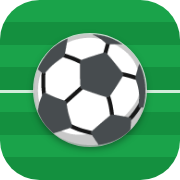
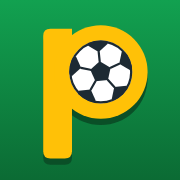
Ícono "P de pelota" y animación de inicio
- Nuevo ícono en todos los tamaños (192, 512, maskable, iPhone) y favicon SVG
- Animación al abrir la app: la pelota entra rodando, pica y aparece el nombre.
  Un toque la salta; no se repite antes de 15 min ni al recargar una pestaña;
  respeta "reducir movimiento" y se va sola aunque falle el script
- Caché pichanga-v8 (incluye icons/icon.svg) y prueba nueva de la animación

Claude-Session: https://claude.ai/code/session_01QoFx17BA7Twhzo8DsK3m5b

diff --git a/index.html b/index.html
@@ -5,13 +5,22 @@
 <meta name="viewport" content="width=device-width, initial-scale=1, viewport-fit=cover">
 <meta name="theme-color" content="#0b7a3b">
 <link rel="manifest" href="manifest.webmanifest">
-<link rel="icon" href="icons/icon-192.png">
+<link rel="icon" href="icons/icon.svg" type="image/svg+xml">
+<link rel="icon" href="icons/icon-192.png" sizes="192x192">
 <link rel="apple-touch-icon" href="icons/apple-touch-icon.png">
 <meta name="apple-mobile-web-app-capable" content="yes">
 <meta name="apple-mobile-web-app-title" content="Pichanga">
 <title>Pichanga.app</title>
 <link rel="preconnect" href="https://fonts.googleapis.com">
 <link href="https://fonts.googleapis.com/css2?family=Lilita+One&family=Nunito:wght@600;800&display=swap" rel="stylesheet">
+<script>
+  // Animación de inicio: solo al abrir la app de cero, no al recargar una pestaña ni al volver de WhatsApp
+  try {
+    const k = "pichanga-v1-intro", u = +localStorage.getItem(k) || 0;
+    if (!navigator.webdriver && !location.hash && Date.now() - u > 15 * 60e3) document.documentElement.classList.add("con-intro");
+    localStorage.setItem(k, Date.now());
+  } catch {}
+</script>
 <style>
   :root {
     --grass: #0b7a3b; --grass2: #12a150; --sky: #1565c0; --sky2: #42a5f5;
@@ -276,9 +285,54 @@
   }
   .manual, .manual2 { margin-top: 10px; }
   .manual summary, .manual2 summary { min-height: 44px; display: flex; align-items: center; font-size: 14px; }
+
+  /* Animación de inicio (dura 2,5 s; un toque la salta) */
+  .intro { display: none; }
+  html.con-intro .intro { display: block; position: fixed; inset: 0; z-index: 100; overflow: hidden; cursor: pointer;
+    background: repeating-linear-gradient(180deg, #0e8f45 0 9%, #12a150 9% 18%);
+    animation: intSalir .45s ease-in 3.5s forwards; } /* respaldo: se va sola aunque falle el script */
+  .intro .lineas { position: absolute; inset: 0; width: 100%; height: 100%; }
+  .intro .lineas * { fill: none; stroke: rgba(255,255,255,.85); stroke-width: .95; stroke-dasharray: 1; stroke-dashoffset: 1; animation: intTrazar .7s ease-out forwards; }
+  .intro .lineas .c { animation-delay: .15s; }
+  .intro .pelota { position: absolute; left: 50%; top: 50%; width: 84px; height: 84px; margin: -42px 0 0 -42px; opacity: 0; filter: drop-shadow(0 6px 0 rgba(0,0,0,.25));
+    animation: intRodar .85s cubic-bezier(.2,.7,.3,1) .3s forwards, intRebote .4s ease-out 1.15s; }
+  .intro .onda { position: absolute; left: 50%; top: 50%; width: 84px; height: 84px; margin: -42px 0 0 -42px; border-radius: 50%; border: 4px solid var(--gold); opacity: 0; animation: intOnda .7s ease-out 1.15s; }
+  .intro .marca { position: absolute; left: 0; right: 0; top: calc(50% + 72px); display: flex; justify-content: center; white-space: nowrap;
+    font: 400 40px/1 "Lilita One", Nunito, sans-serif; color: #fff; text-shadow: 0 4px 0 rgba(0,0,0,.28); }
+  .intro .marca span { display: inline-block; opacity: 0; transform: translateY(18px) scale(.6); animation: intLetra .38s cubic-bezier(.3,1.6,.5,1) forwards; animation-delay: calc(1.3s + var(--i) * .045s); }
+  .intro .marca .pt { color: var(--gold); }
+  .intro .lema, .intro .saltar { position: absolute; left: 0; right: 0; text-align: center; opacity: 0; font: 800 13px Nunito, sans-serif; color: rgba(255,255,255,.9); }
+  .intro .lema { top: calc(50% + 124px); letter-spacing: .1em; text-transform: uppercase; animation: intAparecer .4s ease-out 1.85s forwards; }
+  .intro .saltar { bottom: calc(18px + env(safe-area-inset-bottom, 0px)); font-size: 12px; color: rgba(255,255,255,.65); animation: intAparecer .3s ease-out .6s forwards; }
+  html.con-intro .intro.salir { animation: intSalir .45s ease-in forwards; }
+  @keyframes intTrazar { to { stroke-dashoffset: 0; } }
+  @keyframes intRodar { 0% { opacity: 1; transform: translateX(-60vw) rotate(-540deg); } 100% { opacity: 1; transform: none; } }
+  @keyframes intRebote { 0% { transform: scale(1); } 40% { transform: scale(1.12, .9); } 70% { transform: scale(.96, 1.05); } 100% { transform: scale(1); } }
+  @keyframes intOnda { 0% { opacity: .9; transform: scale(1); } 100% { opacity: 0; transform: scale(2.4); } }
+  @keyframes intLetra { to { opacity: 1; transform: none; } }
+  @keyframes intAparecer { to { opacity: 1; } }
+  @keyframes intSalir { to { opacity: 0; transform: scale(1.08); visibility: hidden; } }
+  @media (prefers-reduced-motion: reduce) {
+    /* sin rodar ni rebotar: aparece todo de una vez y se desvanece */
+    .intro .lineas *, .intro .pelota, .intro .marca span, .intro .lema, .intro .saltar { animation: intAparecer .2s forwards !important; stroke-dashoffset: 0; transform: none; }
+    .intro .onda { display: none; }
+    html.con-intro .intro.salir { animation: intSalir .3s forwards; }
+  }
 </style>
 </head>
 <body>
+<div class="intro" id="intro" aria-hidden="true">
+  <svg class="lineas" viewBox="0 0 100 200" preserveAspectRatio="xMidYMid slice">
+    <rect x="8" y="10" width="84" height="180" rx="2" pathLength="1"/><path d="M8 100 H92" pathLength="1"/>
+    <circle class="c" cx="50" cy="100" r="18" pathLength="1"/>
+    <path d="M30 10 V34 H70 V10" pathLength="1"/><path d="M30 190 V166 H70 V190" pathLength="1"/>
+  </svg>
+  <div class="onda"></div>
+  <svg class="pelota" viewBox="0 0 100 100"><defs></defs><clipPath id="introBall"><circle cx="50" cy="50" r="47"/></clipPath><circle cx="50" cy="50" r="47" fill="#fff"/><g clip-path="url(#introBall)"><path d="M50.00,34.02 L65.20,45.06 L59.39,62.93 L40.61,62.93 L34.80,45.06Z" fill="#1d2a33"/><path d="M50.00,19.92 L35.25,9.20 L40.88,-8.14 L59.12,-8.14 L64.75,9.20Z" fill="#1d2a33"/><path d="M78.61,40.70 L84.24,23.36 L102.48,23.36 L108.11,40.70 L93.36,51.42Z" fill="#1d2a33"/><path d="M67.68,74.34 L85.91,74.34 L91.55,91.68 L76.80,102.39 L62.05,91.68Z" fill="#1d2a33"/><path d="M32.32,74.34 L37.95,91.68 L23.20,102.39 L8.45,91.68 L14.09,74.34Z" fill="#1d2a33"/><path d="M21.39,40.70 L6.64,51.42 L-8.11,40.70 L-2.48,23.36 L15.76,23.36Z" fill="#1d2a33"/><path d="M50.00,34.02 L50.00,19.92 M65.20,45.06 L78.61,40.70 M59.39,62.93 L67.68,74.34 M40.61,62.93 L32.32,74.34 M34.80,45.06 L21.39,40.70" stroke="#1d2a33" stroke-width="3.29" stroke-linecap="round" fill="none"/><circle cx="35.9" cy="35.0" r="42.3" fill="rgba(255,255,255,.0)"/></g><circle cx="50" cy="50" r="45.35" fill="none" stroke="#1d2a33" stroke-width="3.29"/></svg>
+  <div class="marca"><span style="--i:0">p</span><span style="--i:1">i</span><span style="--i:2">c</span><span style="--i:3">h</span><span style="--i:4">a</span><span style="--i:5">n</span><span style="--i:6">g</span><span style="--i:7">a</span><span style="--i:8" class="pt">.</span><span style="--i:9">a</span><span style="--i:10">p</span><span style="--i:11">p</span></div>
+  <div class="lema">Convoca · Arma · Cobra</div>
+  <div class="saltar">Toca para saltar</div>
+</div>
 <header class="top"><h1>⚽ pichanga.app ⚽</h1></header>
 <div class="toast" id="toast" role="status" aria-live="polite"></div>
 
@@ -2622,6 +2676,21 @@ $("importar").addEventListener("change", async () => {
   } catch { toast("⚠ Ese archivo no es un respaldo de Pichanga"); }
   finally { $("importar").value = ""; }
 });
+
+// Animación de inicio: se va sola a los 2,5 s o con un toque; después se saca del todo
+if (document.documentElement.classList.contains("con-intro")) {
+  const intro = $("intro");
+  const fin = () => { document.documentElement.classList.remove("con-intro"); intro.remove(); };
+  const salir = () => {
+    if (intro.classList.contains("salir")) return;
+    clearTimeout(salir.t); intro.classList.add("salir");
+    intro.addEventListener("animationend", (e) => { if (e.target === intro) fin(); });
+    setTimeout(fin, 700); // por si la animación no termina (pestaña en segundo plano)
+  };
+  salir.t = setTimeout(salir, 2500);
+  intro.addEventListener("pointerdown", (e) => { e.preventDefault(); salir(); });
+  intro.addEventListener("click", (e) => e.stopPropagation());
+} else $("intro").remove();
 
 if ("serviceWorker" in navigator && location.protocol.startsWith("http")) {
   navigator.serviceWorker.register("sw.js").catch(() => {});

diff --git a/sw.js b/sw.js
@@ -1,7 +1,7 @@
 // Modo sin conexión: la app se sirve desde la caché si no hay internet,
 // y se actualiza sola cuando hay conexión.
-const CACHE = "pichanga-v7";
-const APP = ["./", "./index.html", "./manifest.webmanifest", "./icons/icon-192.png", "./icons/icon-512.png", "./icons/apple-touch-icon.png"];
+const CACHE = "pichanga-v8";
+const APP = ["./", "./index.html", "./manifest.webmanifest", "./icons/icon-192.png", "./icons/icon-512.png", "./icons/apple-touch-icon.png", "./icons/icon.svg"];
 const ESPERA_RED = 3000; // con señal débil, pasados 3 s se abre la copia guardada
 
 // Solo la página de la app (/ y /index.html) puede reemplazar la copia offline

diff --git a/README.md b/README.md
@@ -15,6 +15,8 @@ Organizador de pichangas para el celular: convocatoria, armado de equipos y cobr
 
 Ábrela en https://tolstoy789.github.io/Mi_Pichanga/ desde el celular y usa **"Agregar a pantalla de inicio"** para instalarla como app. Funciona sin conexión.
 
+Al abrirla de cero aparece una animación corta (la pelota entra rodando a la cancha y salta "pichanga.app"). Un toque la salta, no se repite si vuelves a la app antes de 15 minutos (por ejemplo, desde WhatsApp) y con "reducir movimiento" activado aparece sin rodar ni rebotar. El ícono es la P de pelota (`icons/icon.svg`, con sus versiones PNG para Android e iPhone).
+
 Las acciones importantes (bajar a alguien, cerrar la pichanga, saldar o anotar una deuda, marcar un pago, 🔁 Misma lista, armar equipos, guardar el partido) muestran **↩ Deshacer** por unos segundos. El botón se va apenas se hace otra cosa, para que nunca parezca que deshace lo último.
 
 Los datos se guardan en el mismo teléfono. En la pestaña 🏆 Post-Partido puedes guardar un respaldo (archivo `.json`) y restaurarlo en otro celular; la app recuerda cuándo fue el último respaldo y avisa si el teléfono se queda sin espacio para guardar. Si la app está abierta en dos ventanas a la vez, cada una carga lo que guarda la otra.
